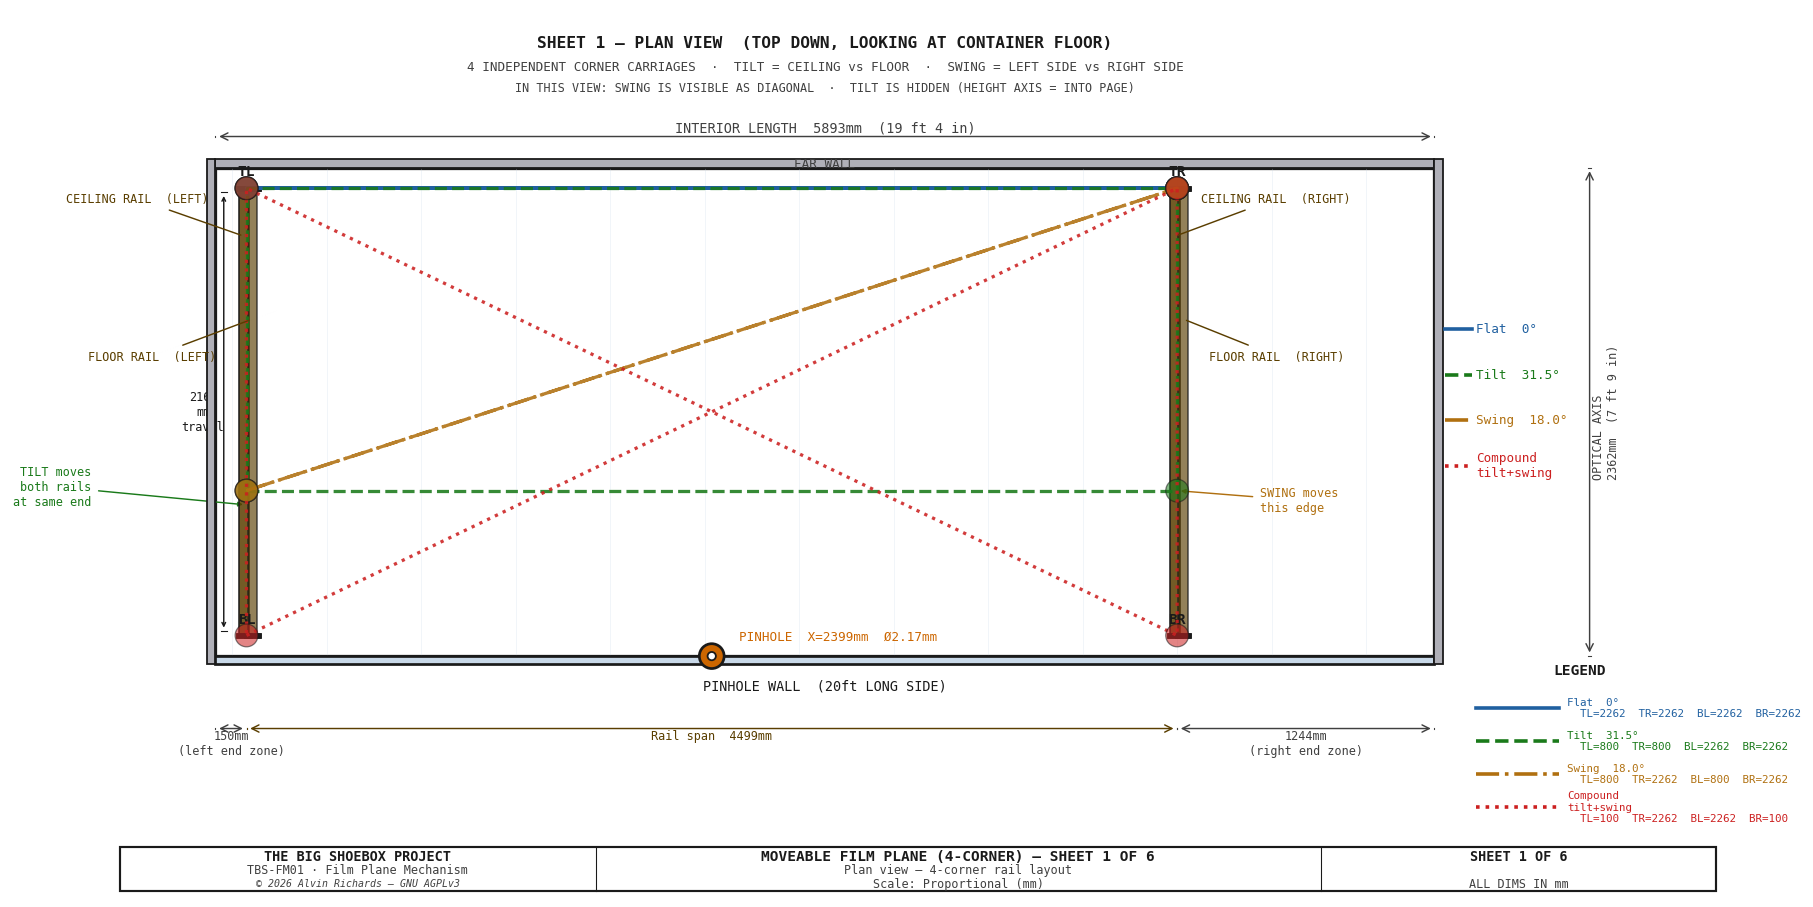
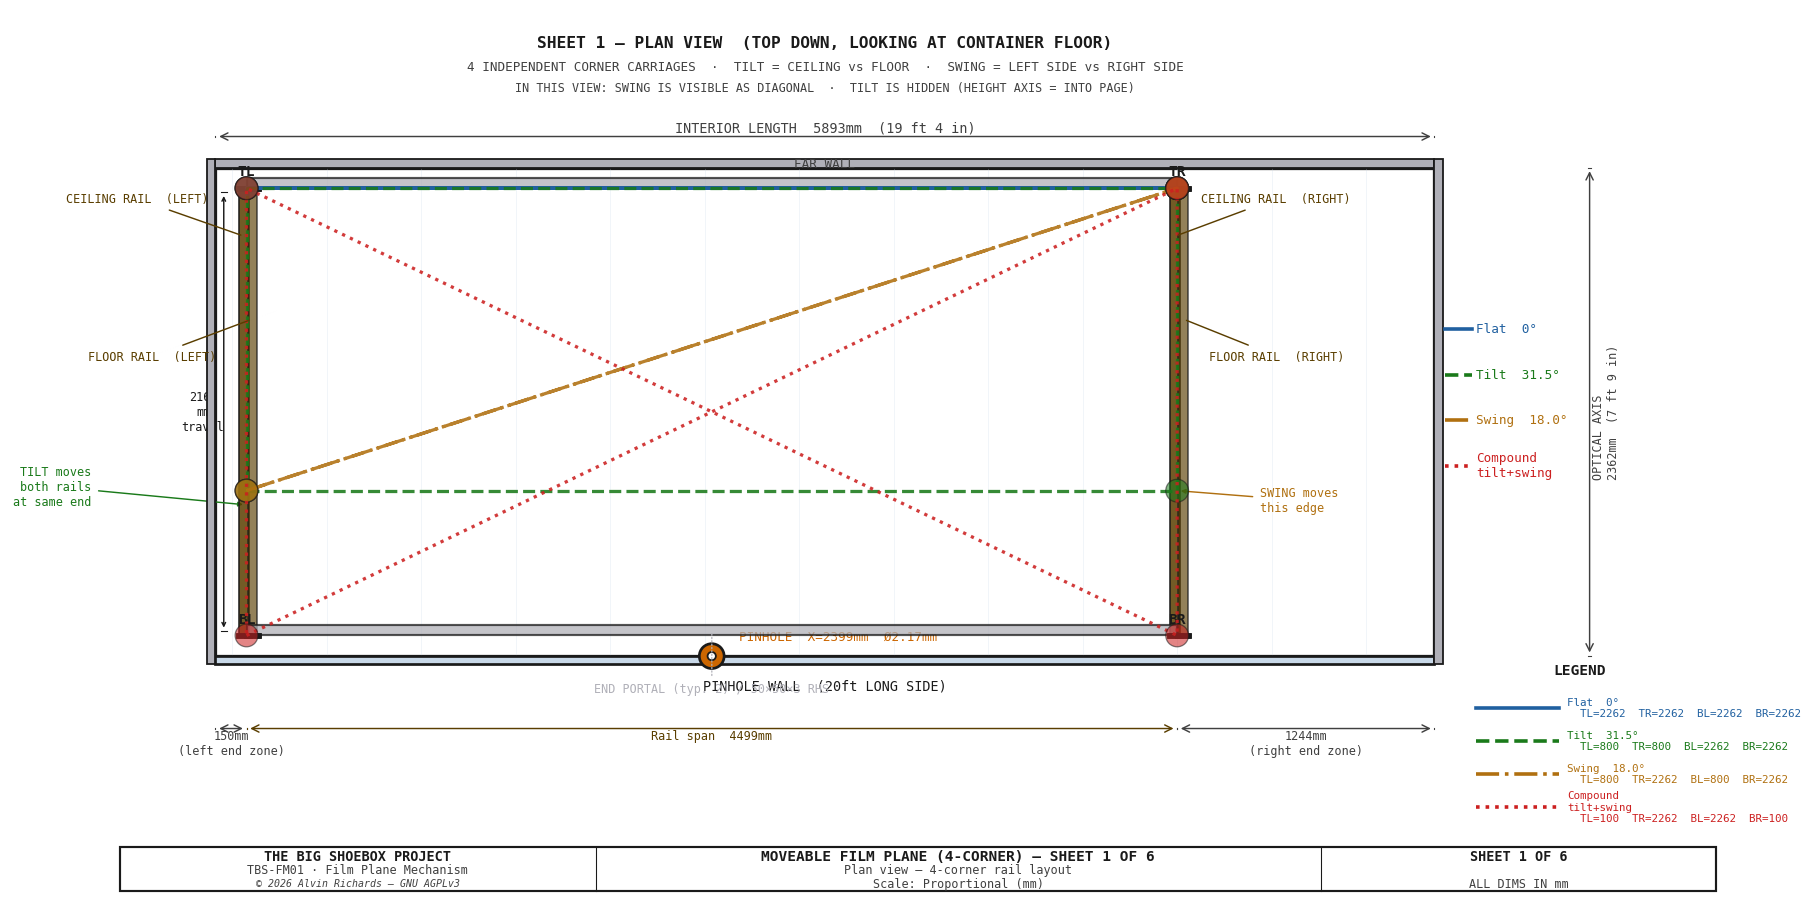
film-plane: draw demountable brace cage portals on plan/elevation/front sheets

Changed region(s): [[0.1236, 0.6792, 0.6486, 0.71], [0.1236, 0.1852, 0.6486, 0.2161], [0.3398, 0.7409, 0.3707, 0.7718]]

diff --git a/src/generators/generate_film_plane_mechanism.py b/src/generators/generate_film_plane_mechanism.py
@@ -32,6 +32,7 @@ from tbs_constants import (
     CLAMP_LEVER_L, CLAMP_JAW_W, CLAMP_JAW_H, CLAMP_JAW_T,
     CLAMP_OPEN_GAP, CLAMP_SPRING_F,
     CLAMP_N_HORIZ, CLAMP_N_VERT, CLAMP_N_TOTAL,
+    BRACE_RHS, BRACE_T, BRACE_Z_BOT, BRACE_Z_TOP,
 )
 from tbs_title_block import title_block
 from tbs_drawing import leader, draw_notes, draw_dim_h, draw_dim_v
@@ -81,6 +82,31 @@ RAIL_X_L = FP_X_L       # left rail X position (mm) — tracks FP_X_L from const
 RAIL_X_R = FP_X_R       # right rail X position (mm) — tracks FP_X_R from constants
 RAIL_W   = 60           # rail width in plan view
 
+
+# ── Brace cage drawing helpers ────────────────────────────────────────────────
+def draw_brace_portal(ax, color, *, lw=1.4, alpha=0.9, z=6):
+    """Rectangular brace portal in an X-Z axes: verticals at the rail X's,
+    top/bottom cross-beams. Members are BRACE_RHS square in section."""
+    s = BRACE_RHS
+    for xv in (RAIL_X_L, RAIL_X_R):
+        ax.add_patch(Rectangle((xv, BRACE_Z_BOT), s, BRACE_Z_TOP - BRACE_Z_BOT,
+                               fc=color, ec=WHITE, lw=lw, alpha=alpha, zorder=z))
+    for zb in (BRACE_Z_BOT, BRACE_Z_TOP - s):
+        ax.add_patch(Rectangle((RAIL_X_L, zb), RAIL_X_R - RAIL_X_L, s,
+                               fc=color, ec=WHITE, lw=lw, alpha=alpha, zorder=z))
+
+
+def draw_brace_portal_yd_z(ax, color, *, lw=1.4, alpha=0.9, z=6):
+    """Rectangular brace portal in a Yd-Z axes (side elevation): verticals at
+    Yd=D_NEAR and Yd=D_FAR, top/bottom cross-beams at BRACE_Z_BOT and BRACE_Z_TOP.
+    X-axis of ax = optical depth (Yd), Y-axis of ax = height (Z)."""
+    s = BRACE_RHS
+    for yd in (D_NEAR, D_FAR):
+        ax.add_patch(Rectangle((yd, BRACE_Z_BOT), s, BRACE_Z_TOP - BRACE_Z_BOT,
+                               fc=color, ec=WHITE, lw=lw, alpha=alpha, zorder=z))
+    for zb in (BRACE_Z_BOT, BRACE_Z_TOP - s):
+        ax.add_patch(Rectangle((D_NEAR, zb), D_FAR - D_NEAR, s,
+                               fc=color, ec=WHITE, lw=lw, alpha=alpha, zorder=z))
 
 
 # ═══════════════════════════════════════════════════════════════════════════════
@@ -178,6 +204,19 @@ def sheet1():
             for rx_ in [rx_ceil, rx_floor]:
                 ax.add_patch(Rectangle((rx_-15, ry-12), RAIL_W*0.8+30, 24,
                                        fc=WHITE, ec=WHITE, lw=0.5, zorder=6))
+
+    # ── BRACE CAGE END PORTALS — shown as RHS-width cross-beam bands in plan ──
+    # Each portal cross-beam spans RAIL_X_L→RAIL_X_R at Yd=D_NEAR and Yd=D_FAR.
+    # In plan view the vertical members are hidden; only the top/bottom cross-beams
+    # (BRACE_RHS wide in Yd) are visible as bands.
+    for yd_pos in (D_NEAR, D_FAR):
+        ax.add_patch(Rectangle((RAIL_X_L, yd_pos), RAIL_X_R - RAIL_X_L, BRACE_RHS,
+                               fc=STRUCT, ec=WHITE, lw=1.2, alpha=0.75, zorder=5))
+    # Label the near portal band
+    leader(ax, (RAIL_X_L + RAIL_X_R) / 2, D_NEAR + BRACE_RHS / 2,
+           (RAIL_X_L + RAIL_X_R) / 2, D_NEAR - 260,
+           "END PORTAL (typ. 2) / 50×50×3 RHS",
+           color=STRUCT, ha="center", fs=6.5, font=FONT)
 
     # Travel dim
     tr_x = RAIL_X_L - RAIL_W - 50
@@ -344,6 +383,16 @@ def sheet2():
                            fc=RAIL, ec=WHITE, lw=0.8, zorder=5, alpha=0.9))
     ax.text(W/2, H-RAIL_H/2, "CEILING RAIL  HGR20  ×2  (TL  +  TR — independent leadscrews)",
             color=BG, fontsize=5.5, ha="center", va="center", **FONT, zorder=6)
+
+    # ── BRACE CAGE PORTALS — side elevation (Yd on X-axis, Z on Y-axis) ─────
+    # Both end portals coincide in this projection (same Yd extent, same Z extent).
+    # Draw as one portal: vertical members at Yd=D_NEAR and Yd=D_FAR,
+    # top/bottom cross-beams spanning D_NEAR→D_FAR.
+    draw_brace_portal_yd_z(ax_tilt, STRUCT, lw=1.2, alpha=0.65, z=4)
+    leader(ax_tilt, (D_NEAR + D_FAR) / 2, BRACE_Z_TOP,
+           (D_NEAR + D_FAR) / 2 - 180, BRACE_Z_TOP + 130,
+           "BRACE PORTAL (both ends)\n50×50×3 RHS",
+           color=STRUCT, ha="right", fs=6.5, font=FONT)
 
     CARRIAGE_W = 80
     CARRIAGE_H = 55
@@ -1638,6 +1687,16 @@ def sheet6():
     ]:
         ax.add_patch(Rectangle(rect_args[:2], rect_args[2], rect_args[3],
                                 fc=STRUCT2, ec="none", lw=0, zorder=7, alpha=0.5))
+
+    # ── Demountable brace cage portal (front elevation) ───────────────────────
+    # The front portal sits at Yd=D_NEAR (near end, pinhole side).
+    # In this X-Z front elevation both end portals project to the same position,
+    # so we draw one representative portal using draw_brace_portal.
+    draw_brace_portal(ax, STRUCT, lw=1.4, alpha=0.55, z=4)
+    leader(ax, RAIL_X_L + BRACE_RHS / 2, (BRACE_Z_BOT + BRACE_Z_TOP) / 2,
+           RAIL_X_L - 550, (BRACE_Z_BOT + BRACE_Z_TOP) / 2 + 150,
+           "DEMOUNTABLE BRACE CAGE\n50×50×3 RHS\nsaddle + thumbscrew joints",
+           color=STRUCT, ha="right", fs=6.5, font=FONT)
 
     # ── Rod-end bearings at each corner of the frame ──────────────────────────
     bearing_r = 22
